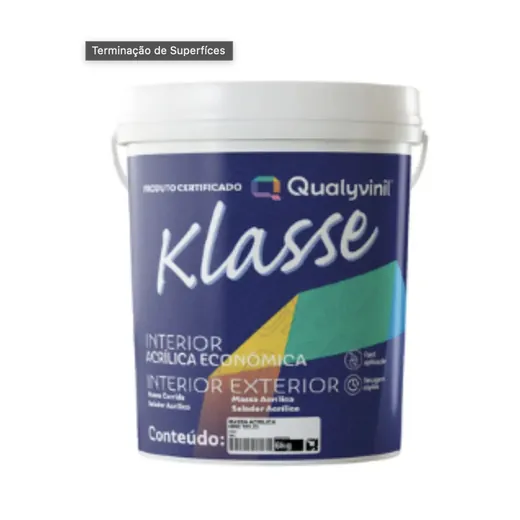
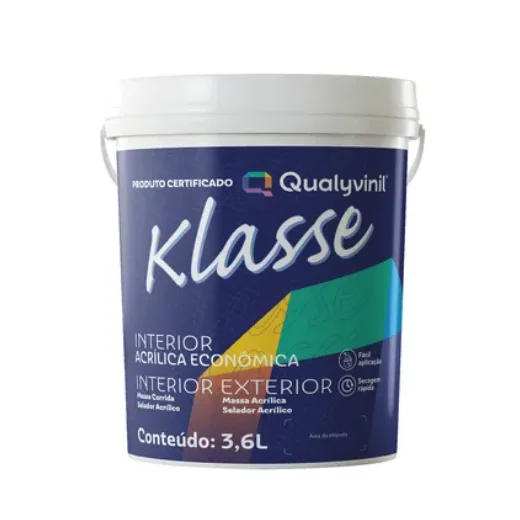
Completa as fotos: 26 de 26 produtos com imagem
Chegaram o Esmalte Sintético 900ml e a massa acrílica 3,6L. Nenhum card
mostra mais o selo com a inicial da marca.

Fica registrado um ponto a confirmar: a foto do "Qualyvinil Massa Acrílica
3,6L" é o balde KLASSE. O cupom lista massa acrílica Qualyvinil 3,6L e
massa acrílica Klasse 18L como itens diferentes, o que sugere duas linhas.
Se o 3,6L que a loja vende for o Klasse, o nome no site precisa incluir
Klasse, como já acontece no de 18L.

Changed region(s): [[0.1846, 0.2154, 0.8308, 0.9231], [0.1538, 0.0615, 0.8, 0.1846]]

diff --git a/dados.js b/dados.js
@@ -355,8 +355,7 @@ const PRODUTOS = [
 
   { id: 20, set: 'madeira', marca: 'Qualyvinil',
     nome: 'Esmalte Sintético Standard 900ml', preco: 38.50,
-    /* foto retirada: foto era do Colorit Eco base água, não Esmalte Sintético (+ selo 'Pintura Artística') */
-    foto: null, cor: 'prontas', carta: 'esmalte', oferta: false },
+    foto: 'qualy-esmalte-900ml', cor: 'prontas', carta: 'esmalte', oferta: false },
 
   /* ---- preparação: massas (não vão para a máquina de tingimento) ---- */
   { id: 21, set: 'preparacao', marca: 'Qualyvinil',
@@ -377,8 +376,10 @@ const PRODUTOS = [
 
   { id: 25, set: 'preparacao', marca: 'Qualyvinil',
     nome: 'Massa Acrílica 3,6L', preco: 46.00,
-    /* foto retirada: foto era do balde Klasse, não da Massa Acrílica Qualyvinil (+ selo 'Terminação de Superfícies') */
-    foto: null, cor: null, oferta: false },
+    /* Foto enviada pelo Bruno em 18/08: é o balde KLASSE 3,6L. O cupom lista
+       "MASSA ACRILICA QUALY. 3,6LTS" e "MASSA ACRILICA KLASSE 18LTS" como
+       itens diferentes — confirmar se o 3,6L que a loja vende é o Klasse. */
+    foto: 'massa-acrilica-36l', cor: null, oferta: false },
 
   { id: 26, set: 'preparacao', marca: 'Qualyvinil',
     nome: 'Massa Acrílica 900ml', preco: 18.90,

diff --git a/docs/AUDITORIA-FOTOS.md b/docs/AUDITORIA-FOTOS.md
@@ -30,15 +30,22 @@ vez do branco das outras 22. Não é produto errado, é inconsistência visual.
 "Complementos Premium", que é a embalagem comum da linha. Massa corrida e massa
 acrílica ficam indistinguíveis na foto — o rótulo não diz qual é.
 
-## Fotos que faltam pedir ao Bruno
+## Resolvido em 18/08/2026
 
-1. Qualyvinil Fosco Completo **3,6L**
-2. Lukscolor Esmalte **Base Água** 900ml (conferir se é a lata base água)
-3. Qualyvinil Esmalte Sintético Standard **900ml**
-4. Qualyvinil Massa Acrílica **3,6L**
+As quatro fotos chegaram e **os 26 produtos estão com foto**. Nenhum card
+mostra mais o selo de marca.
 
-Ideal: fundo branco, produto centralizado, sem marca d'água nem selo de
-campanha.
+Duas vieram no tamanho errado na primeira tentativa (galão no lugar da lata de
+900ml, balde de 25 kg no lugar do 3,6L) e foram substituídas na segunda.
+
+**Um ponto em aberto:** a foto do "Qualyvinil Massa Acrílica 3,6L" é o balde
+**KLASSE**. O cupom lista "MASSA ACRILICA QUALY. 3,6LTS" e "MASSA ACRILICA
+KLASSE 18LTS" como itens diferentes, o que sugere duas linhas. Se o 3,6L que a
+loja vende for mesmo o Klasse, o nome do produto no site deve mudar para
+incluir "Klasse", como já acontece no de 18L. **Confirmar com o Bruno.**
+
+Detalhe menor: a lata de 900ml do Esmalte Sintético tem rótulo de geração
+anterior à do galão de 3,6L. É o mesmo produto, embalagem antiga.
 
 ## Como refazer esta conferência
 
